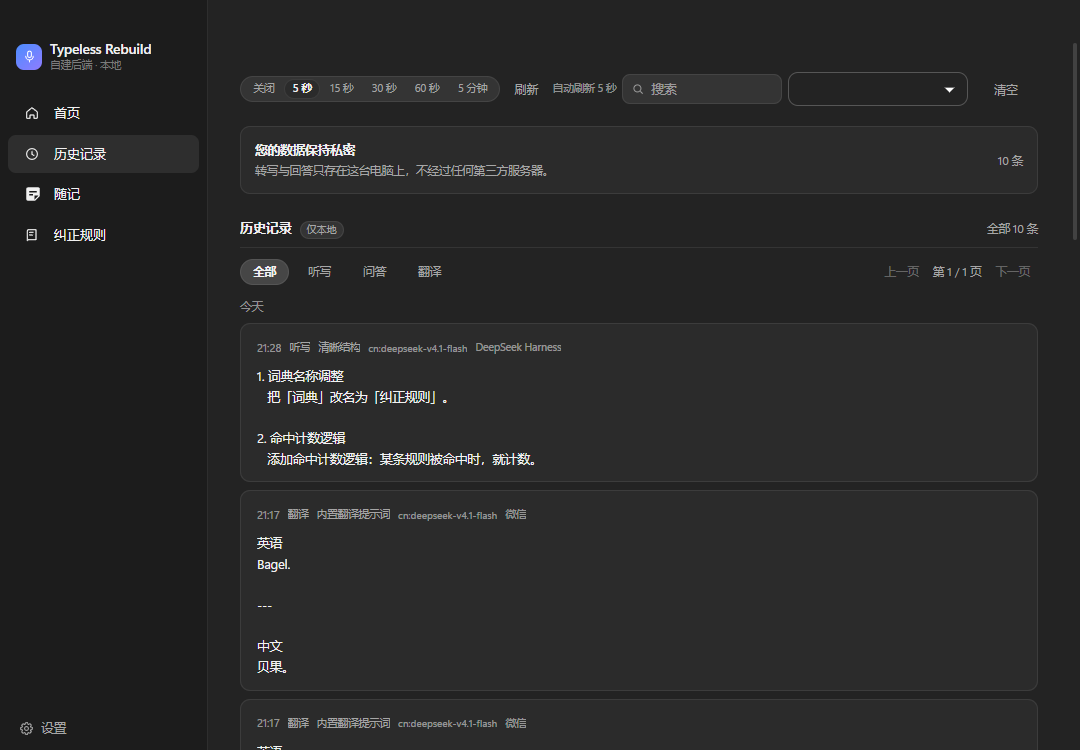
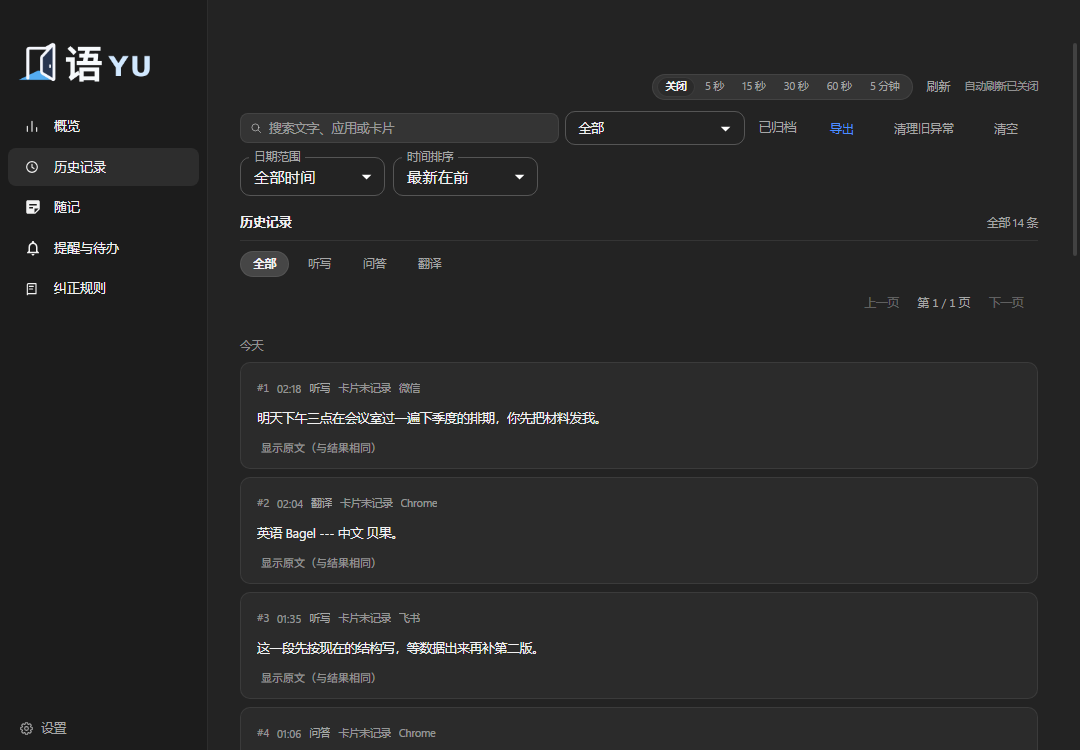
docs: retake screenshots with the current branding and demo data

diff --git a/README.en.md b/README.en.md
@@ -32,13 +32,13 @@ A Windows voice input and local AI assistant: press a hotkey, speak, and the cle
 | --- | --- |
 | ![Bar](resources/screenshots/bar-recording.png) | ![Answer card](resources/screenshots/card-answer.png) |
 
-| History | Model configuration |
+| History | Settings (general) |
 | --- | --- |
-| ![History](resources/screenshots/hub-history.png) | ![Models](resources/screenshots/prefs-models.png) |
+| ![History](resources/screenshots/hub-history.png) | ![Settings](resources/screenshots/prefs-general.png) |
 
-| Shortcuts | |
-| --- | --- |
-| ![Shortcuts](resources/screenshots/prefs-shortcuts.png) | Permissions are requested only when needed; the bar is always resident but records only on demand, and it always shows whether it is idle, recording or processing. |
+![AI & models](resources/screenshots/prefs-models.png)
+
+A fresh install has no working connections: this is where you add a recognition and a text connection — address, key, model — test it, then save. Records shown in these screenshots are demo content.
 
 ## Quick start
 
